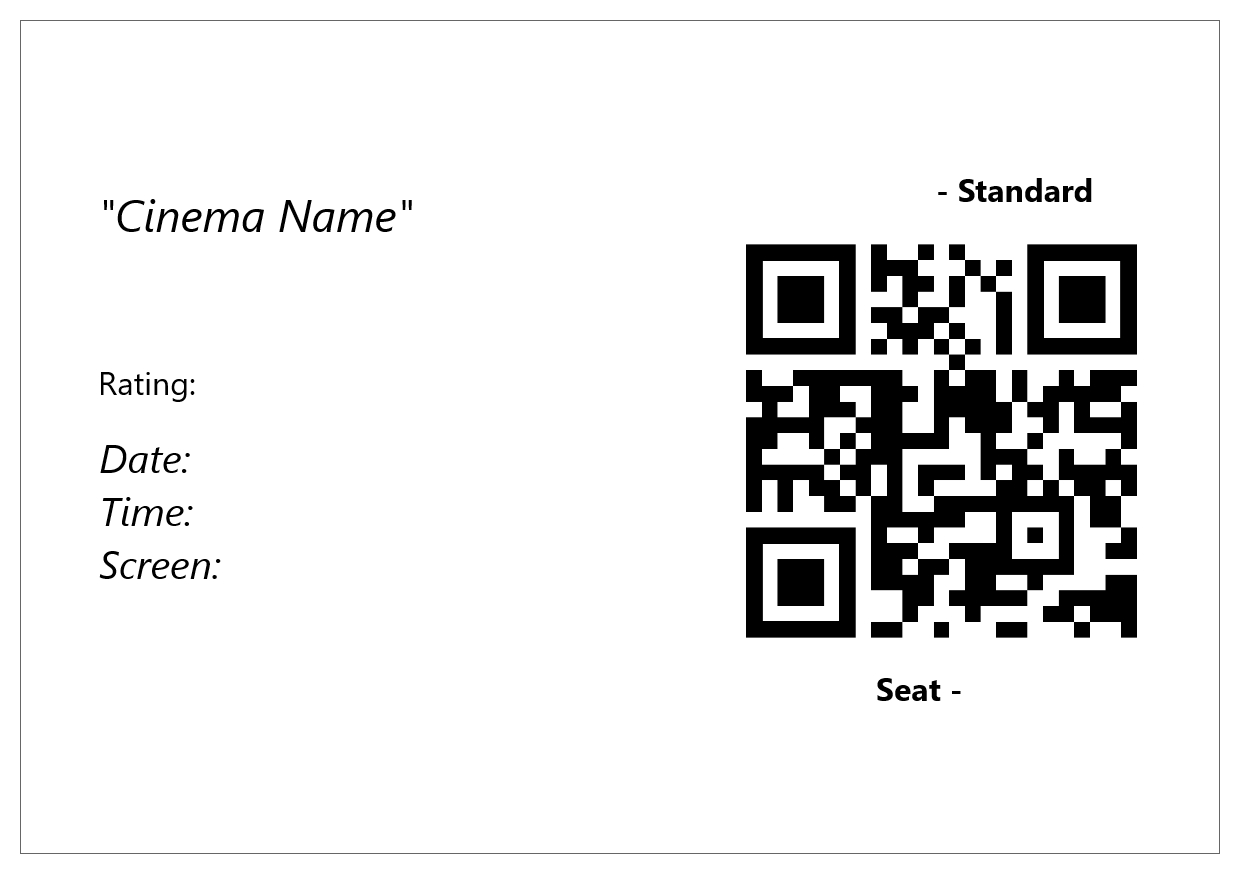
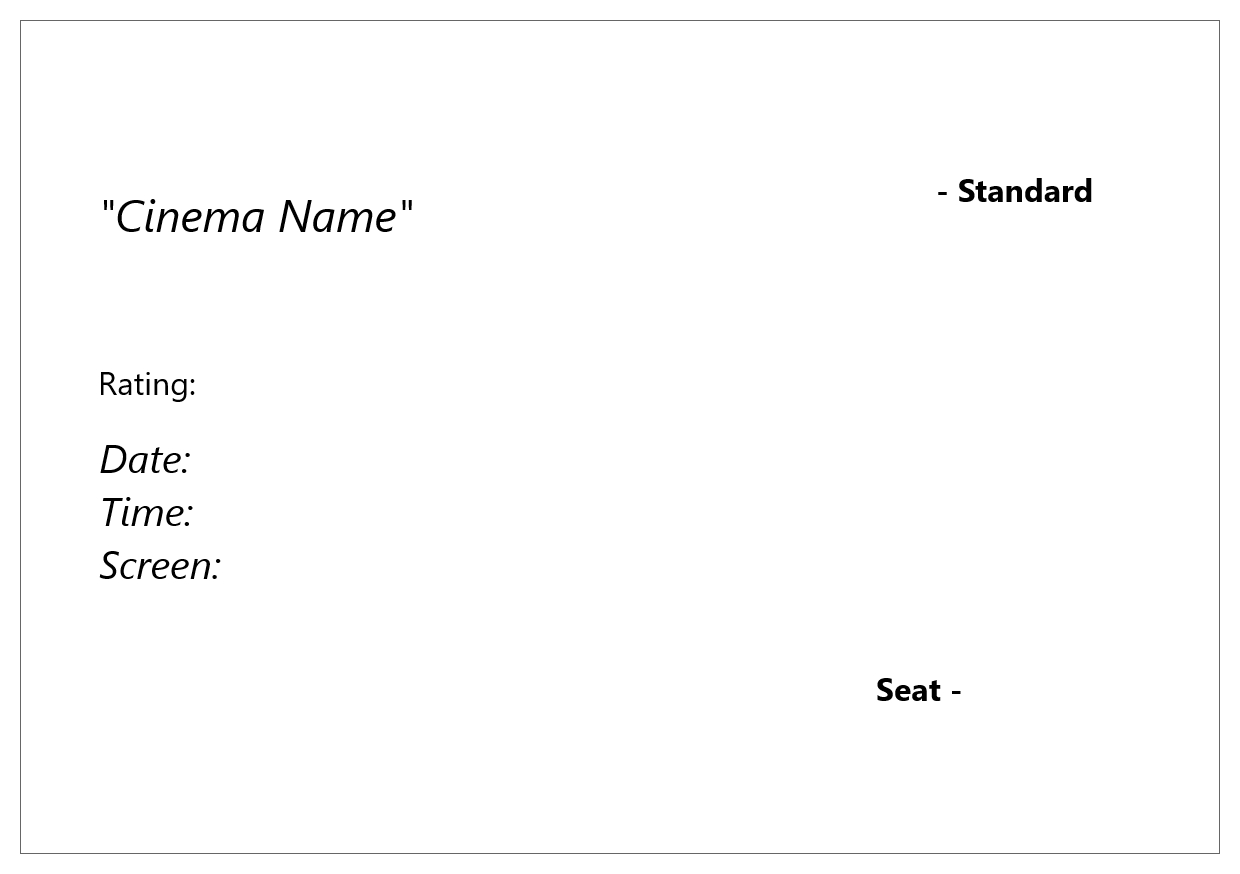
add QR code support

Changed region(s): [[0.5823, 0.278, 0.9194, 0.7414]]

diff --git a/advanced_booking/payment/create_ticket_image.py b/advanced_booking/payment/create_ticket_image.py
@@ -3,7 +3,7 @@ import time
 from PIL import Image, ImageFont, ImageDraw
 from .models import Ticket
 from datetime import datetime
-
+import qrcode
 
 # generate a printable ticket with
 import payment
@@ -35,16 +35,35 @@ def generate_ticket(ticket_info):
     image_editable.text((1000, 665), "Row " + ticket_info["seat_row"], (0, 0, 0), font=title_font)
     image_editable.text((1000, 715), "No. " + ticket_info["seat_number"], (0, 0, 0), font=title_font)
 
+    #add qr code
+    input_data = "Movie:"+ticket_info["title"]+"; Date:"+ticket_info["date"]+\
+                 "; Time"+ticket_info["time"]+"; Row :"+ ticket_info["seat_row"]+ \
+                 "; Seat Number: " + ticket_info["seat_number"]
+
+    qr_image_size = 10
+    qr = qrcode.QRCode(
+        # error_correction=qrcode.constants.ERROR_CORRECT_H,
+        version=1,
+        box_size=qr_image_size,
+        border=2)
+    qr.add_data(input_data)
+    qr.make(fit=True)
+    qr_img = qr.make_image(fill='black', back_color='white').convert('RGBA')
+
+    # qr_img + ticket_tmp   => ticketImage
+    ticketImage = ticket_tmp.copy()
+    ticketImage.paste(qr_img, (720, 250))
+
     # for debugging
-    # ticket_tmp.show()
+    # ticketImage.show()
 
     ticket_id = ticket_info["ticket_id"]
     path = os.path.dirname(payment.__file__)
     try:
-        ticket_tmp.save(f"payment/resources/rendered_tickets/ticket{ticket_id}.pdf")
+        ticketImage.save(f"payment/resources/rendered_tickets/ticket{ticket_id}.pdf")
     except:
         os.remove(f"payment/resources/rendered_tickets/ticket{ticket_id}.pdf")
-        ticket_tmp.save(f"payment/resources/rendered_tickets/ticket{ticket_id}.pdf")
+        ticketImage.save(f"payment/resources/rendered_tickets/ticket{ticket_id}.pdf")
 
 
 def ticket_info(ticket):
